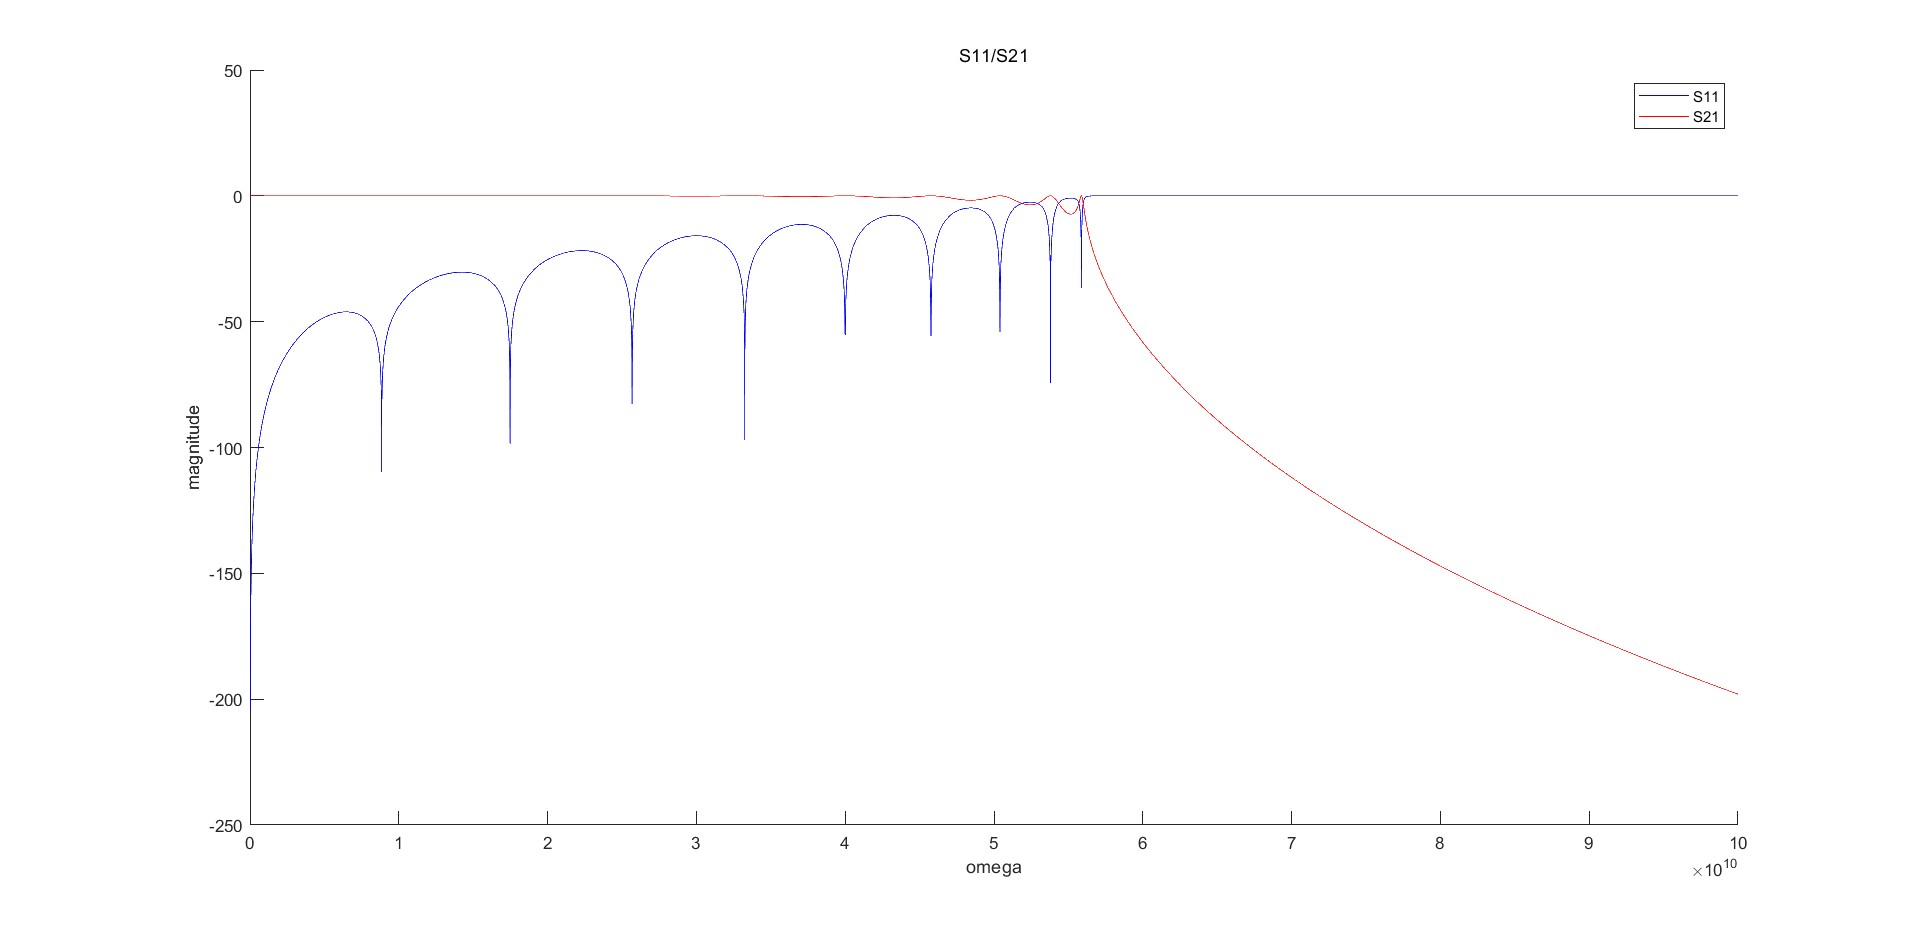
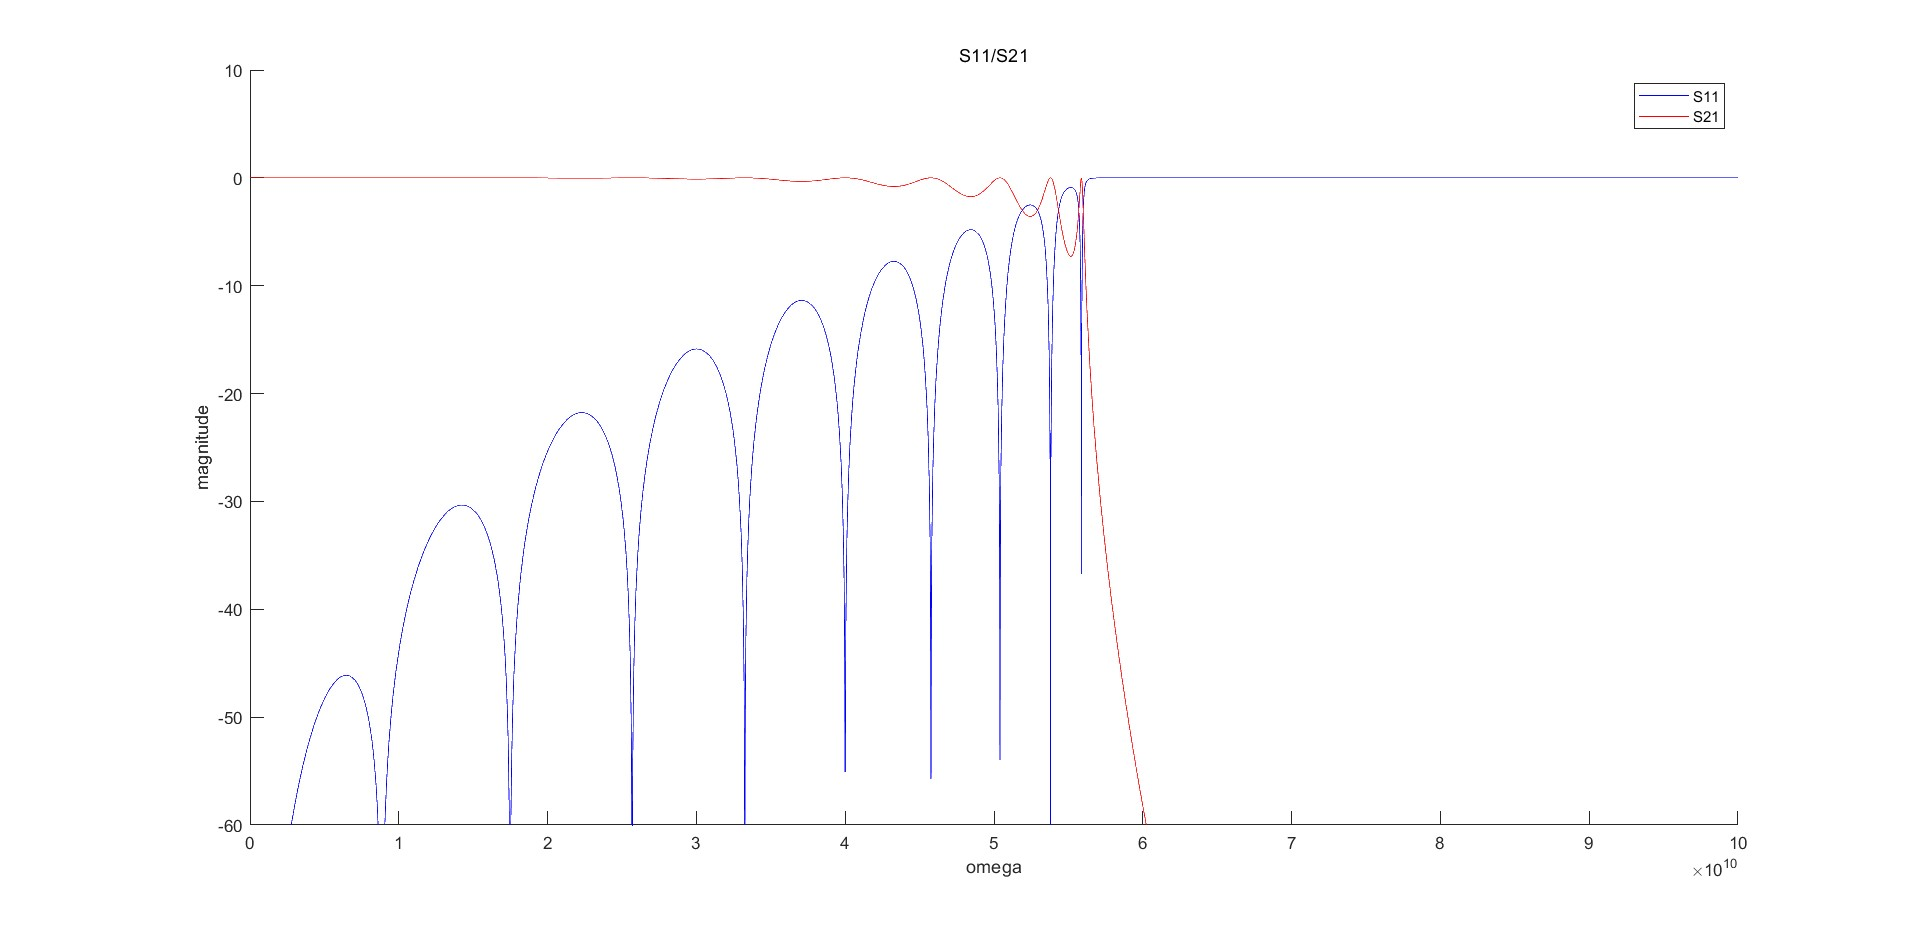
完成了3.22

diff --git a/CRLH/Source/PeriodicUnbalancedCRLH.m b/CRLH/Source/PeriodicUnbalancedCRLH.m
@@ -1,12 +1,14 @@
-%%周期 对称 无耗 PRH的特性
+%%周期 对称 无耗 不平衡 CRLH的特性
 
 %初始化
 clear
 clc
 close all
 
-LR = 2.5 * 1e-9; %右手单位长度电感
+LR = 2 * 1e-9; %右手单位长度电感
 CR = 1e-12; %右手单位长度电感
+LL = 2.5 * 1e-9; %右手单位长度电感
+CL = 0.75 * 1e-12; %右手单位长度电感
 
 Omega = 1e11;
 omega = 0:Omega / 10000:Omega; %扫频范围
@@ -15,16 +17,22 @@ p = 3.75e-4; %网格间距
 N = 10; %单元个数
 L = p * N; %网格长度
 
-Z = 1i * omega * LR / 2;
-Y = 1i * omega * CR;
+Z = 1i * omega * LR / 2 + 1 ./ (1i * 2 * omega * CL);
+Y = 1i * omega * CR + 1 ./ (1i * omega * LL);
 
 Zc = sqrt(Z ./ Y);
+omega0 = (LR * CR * LL * CL) ^ (-1/4);
 
 A = zeros(2, 2, length(omega)); %单元传输矩阵
 AN = zeros(2, 2, length(omega)); %总传输矩阵
 SN = zeros(2, 2, length(omega)); %散射矩阵
 
 for i = 1:length(omega)
+
+    if real(Zc(i)) == 0
+        Zc(i) = imag(Zc(i));
+    end
+
     A(:, :, i) = [1 Z(i) / 2; 0 1] * [1 0; Y(i) 1] * [1 Z(i) / 2; 0 1];
     AN(:, :, i) = A(:, :, i) ^ N;
     SN(:, :, i) = 1 / (AN(1, 1, i) + AN(1, 2, i) / Zc(i) + AN(2, 1, i) * Zc(i) + AN(2, 2, i)) * ...
@@ -64,8 +72,10 @@ title('S21 phase')
 h3 = figure;
 hold on
 unwrappedS21_phi = unwrap(S21_phi, -360);
+[~, idx] = min(abs(omega0 - omega));
+val = mean([unwrappedS21_phi(idx - 1), unwrappedS21_phi(idx + 1)]);
+unwrappedS21_phi = unwrappedS21_phi - val;
 plot(omega, unwrappedS21_phi, '-', 'Color', 'b')
-ylim([-2000, 0])
 xlabel('omega')
 ylabel('phase')
 title('unwrapped S21 phase')

diff --git a/CRLH/Source/PeriodicBalancedCRLH.m b/CRLH/Source/PeriodicBalancedCRLH.m
@@ -1,4 +1,4 @@
-%%周期 对称 无耗 PRH的特性
+%%周期 对称 无耗 平衡 CRLH的特性
 
 %初始化
 clear
@@ -7,18 +7,21 @@ close all
 
 LR = 2.5 * 1e-9; %右手单位长度电感
 CR = 1e-12; %右手单位长度电感
+LL = 2.5 * 1e-9; %右手单位长度电感
+CL = 1e-12; %右手单位长度电感
 
 Omega = 1e11;
-omega = 0:Omega / 10000:Omega; %扫频范围
+omega = 0:Omega / 100000:Omega; %扫频范围
 
 p = 3.75e-4; %网格间距
 N = 10; %单元个数
 L = p * N; %网格长度
 
-Z = 1i * omega * LR / 2;
-Y = 1i * omega * CR;
+Z = 1i * omega * LR / 2 + 1 ./ (1i * 2 * omega * CL);
+Y = 1i * omega * CR + 1 ./ (1i * omega * LL);
 
 Zc = sqrt(Z ./ Y);
+omega0 = (LR * CR * LL * CL) ^ (-1/4);
 
 A = zeros(2, 2, length(omega)); %单元传输矩阵
 AN = zeros(2, 2, length(omega)); %总传输矩阵
@@ -64,8 +67,10 @@ title('S21 phase')
 h3 = figure;
 hold on
 unwrappedS21_phi = unwrap(S21_phi, -360);
+[~, idx] = min(abs(omega0 - omega));
+val = mean([unwrappedS21_phi(idx - 1), unwrappedS21_phi(idx + 1)]);
+unwrappedS21_phi = unwrappedS21_phi - val;
 plot(omega, unwrappedS21_phi, '-', 'Color', 'b')
-ylim([-2000, 0])
 xlabel('omega')
 ylabel('phase')
 title('unwrapped S21 phase')

diff --git a/CRLH/Source/PeriodicPLH.m b/CRLH/Source/PeriodicPLH.m
@@ -1,4 +1,4 @@
-%%周期 对称 无耗 PRH的特性
+%%周期 对称 无耗 PLH的特性
 
 %初始化
 clear
@@ -44,6 +44,7 @@ S11_dB = 20 * log10(abs(S11));
 S21_dB = 20 * log10(abs(S21));
 plot(omega, S11_dB, '-', 'Color', 'b')
 plot(omega, S21_dB, '-', 'Color', 'r')
+ylim([-60 10])
 xlabel('omega')
 ylabel('magnitude')
 title('S11/S21')
